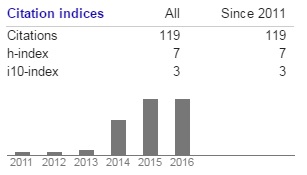
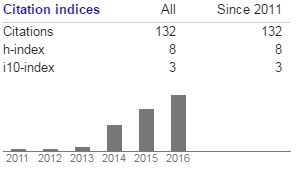
update google scholar citation

diff --git a/pubs.html b/pubs.html
@@ -22,7 +22,7 @@ Back to <A HREF="../">Jun Chen's homepage</A>
 
 <br>
 <br>
-Research keywords and Google scholar citations, as of June 2016 and August 2016, respectively. 
+Research keywords and Google scholar citations, as of June 2016 and October 2016, respectively. 
 <center>
 <br>
 <a href="https://sites.google.com/site/jchenweb2014/publications/Cloud%203.png?attredirects=0"><img border="0" height="200" src="pic/keys.png" width="200" /></a>
